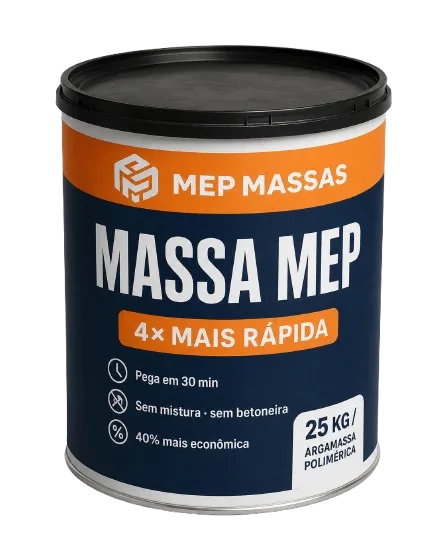
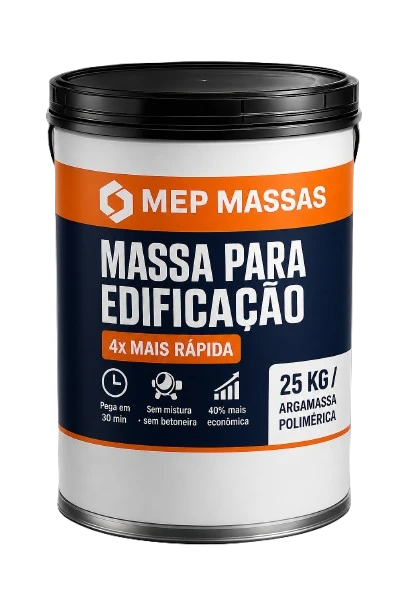
Adiciona menu fixo sticky e atualiza imagem da barrica

diff --git a/saidas/index.html b/saidas/index.html
@@ -263,6 +263,10 @@ header { background: var(--branco); border-bottom: 1px solid var(--borda); posit
 .header-cta { background: var(--laranja); color: var(--branco); padding: 10px 22px; border-radius: 6px; font-size:14px; font-weight:700; transition: opacity .2s; }
 .header-cta:hover { opacity:.88; color:#fff; }
 
+/* STICKY HEADER WRAPPER */
+#site-header { position: sticky; top: 0; z-index: 200; box-shadow: 0 2px 12px rgba(0,0,0,0); transition: box-shadow .3s; }
+#site-header.scrolled { box-shadow: 0 2px 16px rgba(0,0,0,0.10); }
+
 /* NAV */
 nav { background: var(--branco); border-bottom: 1px solid var(--borda); }
 .nav-inner { max-width:1200px; margin:0 auto; padding:0 40px; display:flex; gap:0; }
@@ -803,6 +807,9 @@ footer { background:var(--azul2); color:rgba(255,255,255,0.55); }
   </div>
 </div>
 
+<!-- HEADER + NAV STICKY WRAPPER -->
+<div id="site-header">
+
 <!-- HEADER -->
 <header>
   <div class="header-inner">
@@ -826,6 +833,8 @@ footer { background:var(--azul2); color:rgba(255,255,255,0.55); }
     <a href="#contato" class="nav-item">Contato</a>
   </div>
 </nav>
+
+</div><!-- /site-header -->
 
 <!-- HERO -->
 <div class="hero">
@@ -2038,6 +2047,12 @@ document.getElementById('f-btn').addEventListener('click', function() {
   if (msg) texto += ' Observação: ' + msg;
 
   window.open('https://wa.me/5547996958399?text=' + encodeURIComponent(texto), '_blank');
+});
+
+// Shadow no header ao rolar
+var siteHeader = document.getElementById('site-header');
+window.addEventListener('scroll', function() {
+  siteHeader.classList.toggle('scrolled', window.scrollY > 10);
 });
 
 // Nav scroll ativo

diff --git a/saidas/site-mep-v3.html b/saidas/site-mep-v3.html
@@ -263,6 +263,10 @@ header { background: var(--branco); border-bottom: 1px solid var(--borda); posit
 .header-cta { background: var(--laranja); color: var(--branco); padding: 10px 22px; border-radius: 6px; font-size:14px; font-weight:700; transition: opacity .2s; }
 .header-cta:hover { opacity:.88; color:#fff; }
 
+/* STICKY HEADER WRAPPER */
+#site-header { position: sticky; top: 0; z-index: 200; box-shadow: 0 2px 12px rgba(0,0,0,0); transition: box-shadow .3s; }
+#site-header.scrolled { box-shadow: 0 2px 16px rgba(0,0,0,0.10); }
+
 /* NAV */
 nav { background: var(--branco); border-bottom: 1px solid var(--borda); }
 .nav-inner { max-width:1200px; margin:0 auto; padding:0 40px; display:flex; gap:0; }
@@ -803,6 +807,9 @@ footer { background:var(--azul2); color:rgba(255,255,255,0.55); }
   </div>
 </div>
 
+<!-- HEADER + NAV STICKY WRAPPER -->
+<div id="site-header">
+
 <!-- HEADER -->
 <header>
   <div class="header-inner">
@@ -826,6 +833,8 @@ footer { background:var(--azul2); color:rgba(255,255,255,0.55); }
     <a href="#contato" class="nav-item">Contato</a>
   </div>
 </nav>
+
+</div><!-- /site-header -->
 
 <!-- HERO -->
 <div class="hero">
@@ -2038,6 +2047,12 @@ document.getElementById('f-btn').addEventListener('click', function() {
   if (msg) texto += ' Observação: ' + msg;
 
   window.open('https://wa.me/5547996958399?text=' + encodeURIComponent(texto), '_blank');
+});
+
+// Shadow no header ao rolar
+var siteHeader = document.getElementById('site-header');
+window.addEventListener('scroll', function() {
+  siteHeader.classList.toggle('scrolled', window.scrollY > 10);
 });
 
 // Nav scroll ativo